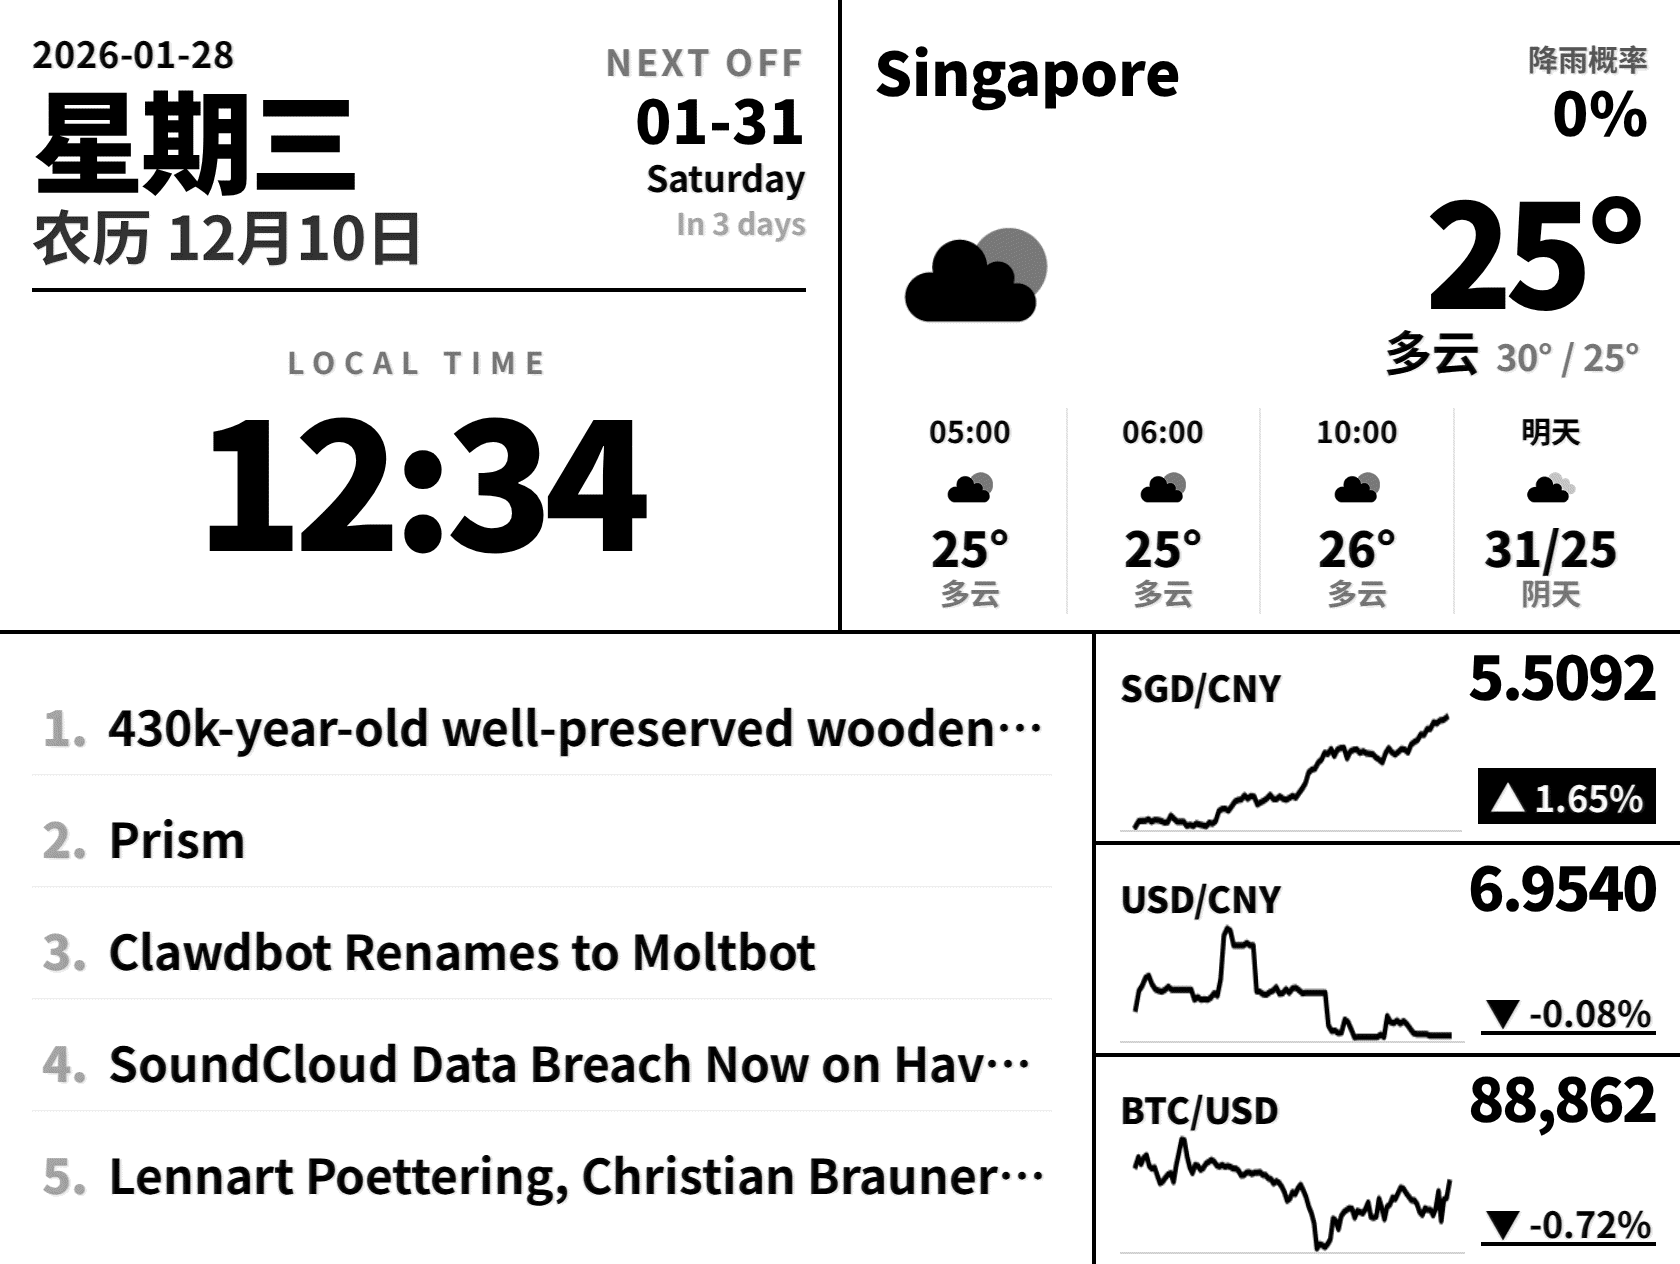
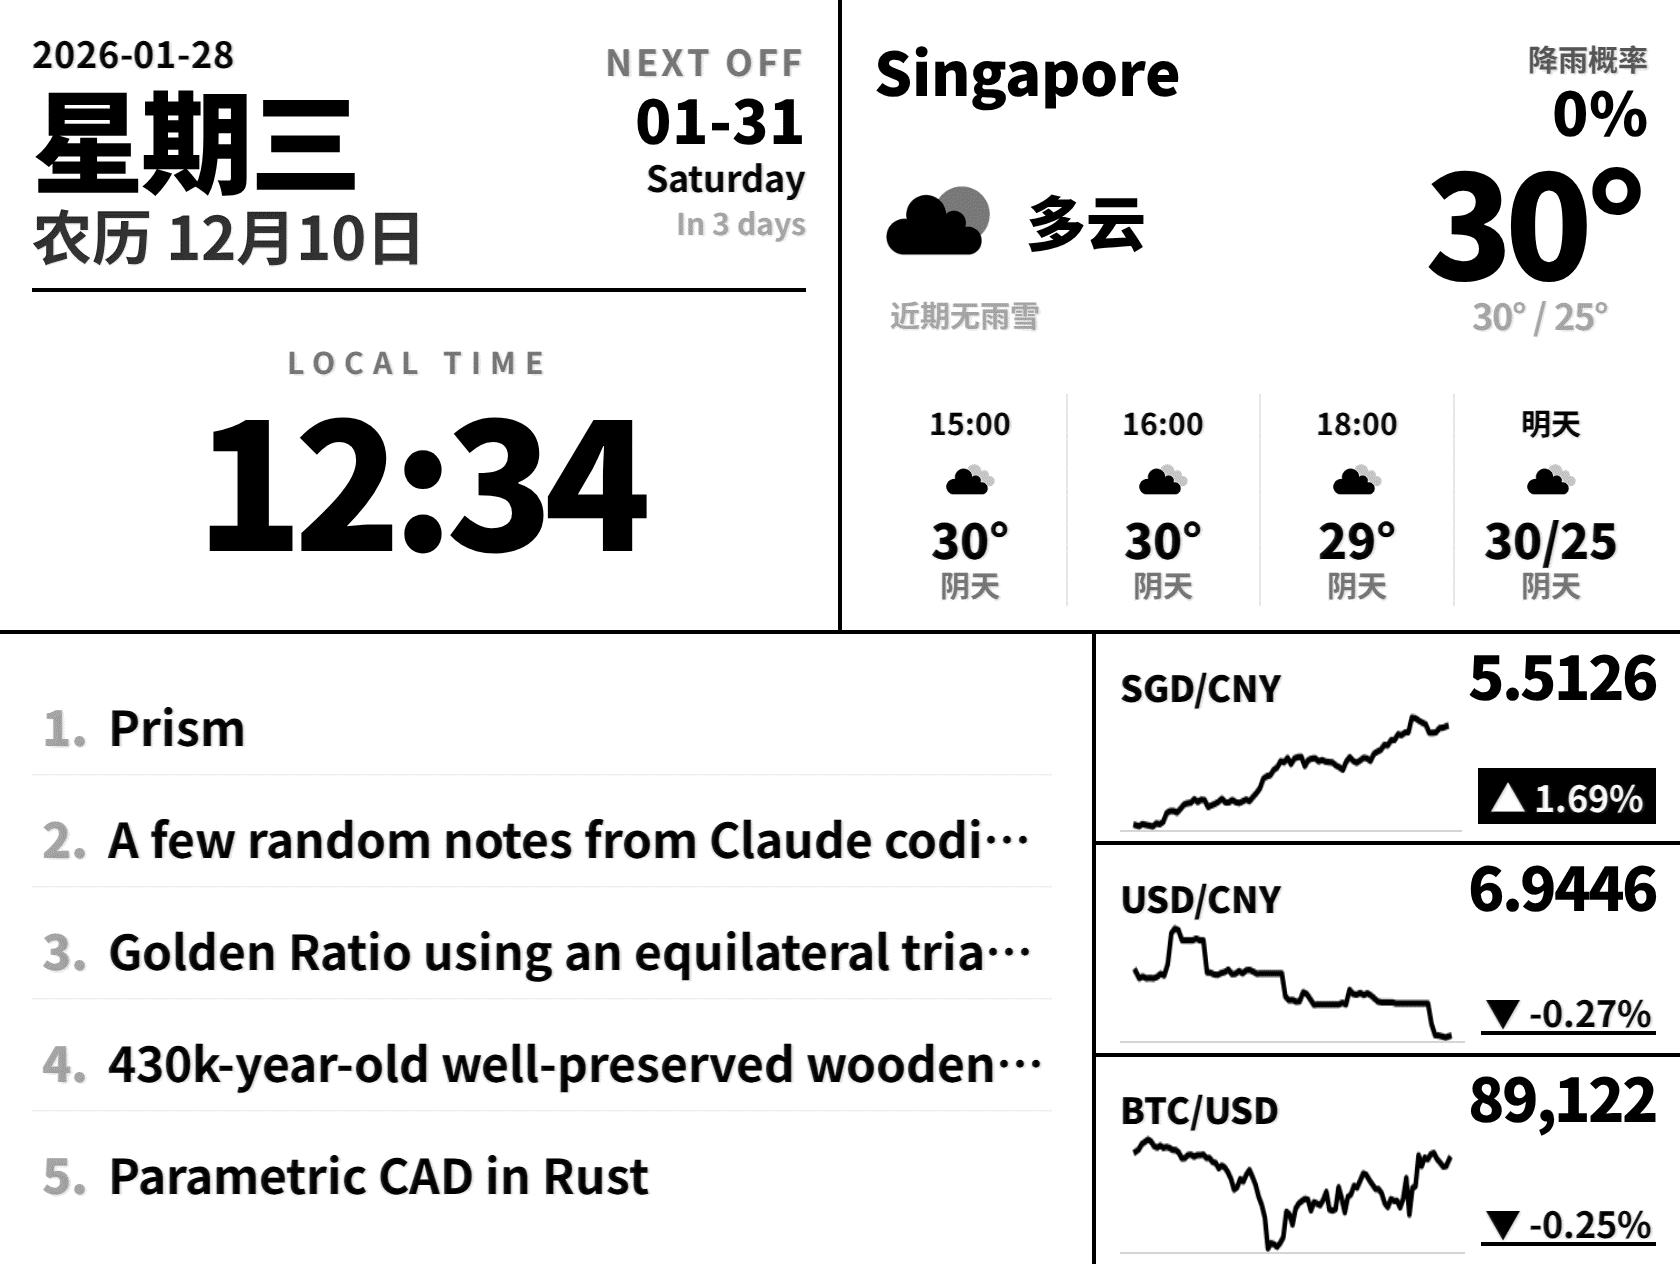
feat: Implement 48-hour weather alerts and redesign the dashboard's main weather display.

diff --git a/templates/dashboard.html b/templates/dashboard.html
@@ -104,28 +104,45 @@
                         </div>
                     </div>
                     
-                    <div class="flex items-center justify-between px-2 mt-4">
-                        <!-- Weather Icon (Enlarged) -->
-                        <img src="http://openweathermap.org/img/wn/{{ weather.current.icon }}@4x.png" class="w-[220px] h-[220px] grayscale invert contrast-125 drop-shadow-sm -ml-4">
-                        <div class="text-right flex flex-col items-end">
-                            <!-- Alert Message if exists -->
-                            {% if weather.current.alert %}
-                            <div class="text-4xl font-black bg-black text-white px-3 py-1 mb-2">{{ weather.current.alert }}</div>
-                            {% endif %}
-                            
-                            <div class="text-[9rem] font-black leading-none tracking-tighter">{{ weather.current.temp }}°</div>
-                            
-                            <!-- High/Low and Desc -->
-                            <div class="flex items-baseline justify-end mt-2">
-                                <span class="text-5xl font-bold mr-4">{{ weather.current.desc }}</span>
-                                <span class="text-4xl font-bold text-gray-500">{{ weather.current.high_low }}</span>
+                    <!-- Main Weather Display -->
+                    <div class="flex items-start justify-between px-2 mt-2">
+                        <!-- Left: Icon + Weather Name (Same Line) and Alerts Below -->
+                        <div class="flex flex-col">
+                            <!-- Icon and Weather Name in Same Row -->
+                            <div class="flex items-center">
+                                <img src="http://openweathermap.org/img/wn/{{ weather.current.icon }}@4x.png" class="w-[160px] h-[160px] grayscale invert contrast-125 drop-shadow-sm -ml-6 -my-4">
+                                <span class="text-6xl font-black ml-2">{{ weather.current.desc }}</span>
                             </div>
+                            
+                            <!-- Future Weather Alerts (48h) -->
+                            <div class="mt-6 ml-8">
+                                {% if weather.current.has_warning %}
+                                <!-- Government Warning: Black background -->
+                                <div class="inline-block text-3xl font-black bg-black text-white px-4 py-2">
+                                    ⚠ {{ weather.current.alert }}
+                                </div>
+                                {% elif weather.current.alert %}
+                                <!-- Rain/Snow forecast: Gray background -->
+                                <div class="inline-block text-3xl font-bold text-gray-400 px-1 py-1">
+                                    {{ weather.current.alert }}
+                                </div>
+                                {% else %}
+                                <!-- No rain/snow: Gray text -->
+                                <div class="inline-block text-3xl font-bold text-gray-400 px-1 py-1">
+                                    近期无雨雪
+                                </div>
+                                {% endif %}
+                            </div>
+                        </div>
+                        
+                        <!-- Right: Temperature and High/Low (Aligned) -->
+                        <div class="text-right flex flex-col items-end justify-center tabular-nums">
+                            <div class="text-[9rem] font-black leading-[0.85] tracking-tighter">{{ weather.current.temp }}°</div>
+                            <div class="text-4xl font-bold text-gray-400 mt-8 mr-12 tracking-tight">{{ weather.current.high_low }}</div>
                         </div>
                     </div>
                 </div>
 
-                <!-- Divider -->
-                <div class="h-[4px] bg-black w-full mb-6"></div>
 
                 <!-- Bottom Part: Hourly Forecast + Tomorrow -->
                 <!-- Increased height from 160px to 220px/auto to breathe, but ensured content fits -->

diff --git a/data_services.py b/data_services.py
@@ -281,8 +281,9 @@ def get_weather(lat=DEFAULT_LAT, lon=DEFAULT_LON):
                 "desc": d_desc
             }
 
-        # 4. Today's Weather Alert (Scan hourly for rain/snow from NOW until Midnight)
+        # 4. Weather Alert (Scan hourly for rain/snow for next 48 hours)
         alert_msg = ""
+        upcoming_alerts = []  # List of (hours_from_now, weather_type, datetime)
         try:
            # Find index of current hour
            now_hour_idx = -1
@@ -293,33 +294,47 @@ def get_weather(lat=DEFAULT_LAT, lon=DEFAULT_LON):
                    break
            
            if now_hour_idx != -1:
-               # Scan until end of today
-               found_alert = False
-               for i in range(now_hour_idx + 1, len(times)):
+               # Scan next 48 hours
+               max_hours = min(now_hour_idx + 49, len(times))  # 48 hours from now
+               for i in range(now_hour_idx + 1, max_hours):
                    t_dt = datetime.datetime.fromisoformat(times[i])
-                   if t_dt.day != now_dt.day: break # Stop if next day
+                   hours_from_now = i - now_hour_idx
                    
                    code = codes[i]
-                   # Rain/Snow/Thunder codes
-                   # Rain: 61,63,65, 80,81,82
-                   # Snow: 71,73,75, 85,86
-                   # Thunder: 95,96,99
-                   # Freezing Rain: 66,67
-                   if code in [61, 63, 65, 80, 81, 82, 66, 67]:
-                       alert_msg = f"{t_dt.hour}点有雨"
-                       found_alert = True
-                   elif code in [71, 73, 75, 85, 86, 77]:
-                       alert_msg = f"{t_dt.hour}点有雪"
-                       found_alert = True
-                   elif code in [95, 96, 99]:
-                       alert_msg = f"{t_dt.hour}点雷雨"
-                       found_alert = True
+                   weather_type = None
                    
-                   if found_alert: break
+                   # Rain/Snow/Thunder codes
+                   if code in [61, 63, 65, 80, 81, 82, 66, 67]:
+                       weather_type = "雨"
+                   elif code in [71, 73, 75, 85, 86, 77]:
+                       weather_type = "雪"
+                   elif code in [95, 96, 99]:
+                       weather_type = "雷雨"
+                   elif code in [51, 53, 55]:  # Drizzle
+                       weather_type = "小雨"
+                   
+                   if weather_type:
+                       upcoming_alerts.append((hours_from_now, weather_type, t_dt))
+               
+               # Generate alert message
+               if upcoming_alerts:
+                   first_alert = upcoming_alerts[0]
+                   hours, wtype, alert_dt = first_alert
+                   
+                   if hours <= 3:
+                       alert_msg = f"{hours}H后有{wtype}"
+                   elif alert_dt.day == now_dt.day:
+                       alert_msg = f"今天{alert_dt.hour}点有{wtype}"
+                   elif alert_dt.day == now_dt.day + 1 or (now_dt.day == 31 and alert_dt.day == 1):
+                       alert_msg = f"明天{alert_dt.hour}点有{wtype}"
+                   else:
+                       alert_msg = f"{hours}H后有{wtype}"
         except Exception as e:
             print(f"Alert Logic Error: {e}")
 
         weather_data['current']['alert'] = alert_msg
+        weather_data['current']['has_warning'] = False  # TODO: Set to True when government warning exists
+        weather_data['current']['upcoming_alerts'] = upcoming_alerts[:5]  # Store first 5 alerts
             
         weather_cache.set('weather_data_v2', weather_data)
         return weather_data
